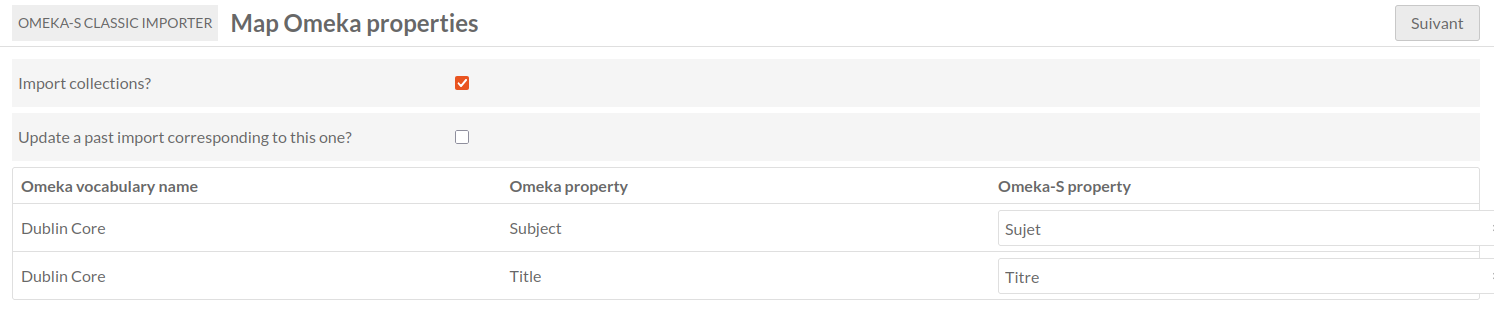
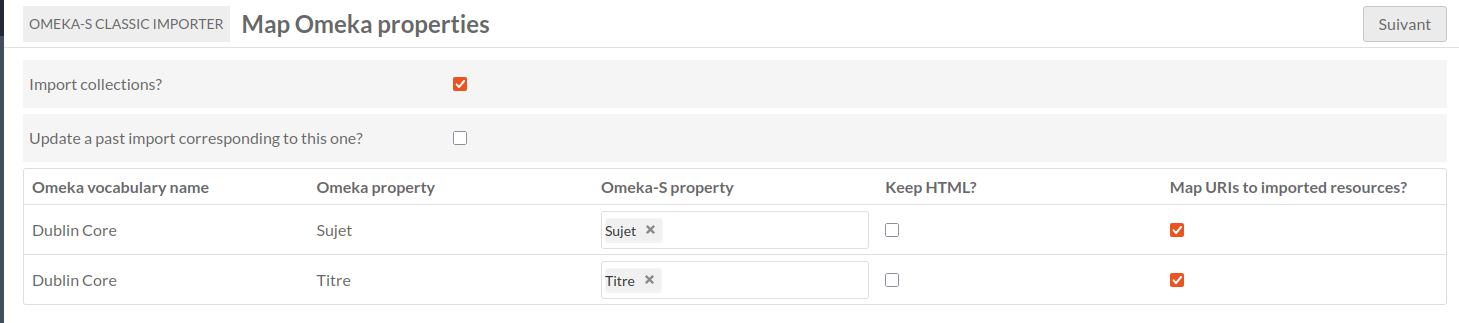
Update README.

diff --git a/README.md b/README.md
@@ -15,24 +15,50 @@ To use the module, you first need an Omeka (classic) instance of your choice, th
 The module is not made to create the dump, the administrator needs to do it by themself.
 
 The dump then needs to be uploaded to the Omeka-S instance (anywhere Omeka-S can reach).
-The module also is not made to upload the dump to the Omeka-S instance. It needs to be done by an administrator beforehand.
+The module also is not made to upload the dump.sql file to the Omeka-S instance. It needs to be done by an administrator beforehand.
 
-Lastly, if not already existing, a MySQL administrator user with all (\*.\*) permissions MUST be created beforehand.
-This user will be used by the module to create a new database to receive the dump.
+The media files contained in omeka/files/original must also be uploaded (anywhere Omeka-S can reach) if you want the media to be imported.
+
+Lastly, a MySQL temporary database with a user having permissions on it must be created to import the dump.
+Here is what the SQL commands should look like more or less, to be executed as root:
+```bash
+sudo mysql -uroot
+[MySQL] > CREATE USER 'tempdb'@'%' IDENTIFIED BY 'password';
+[MySQL] > CREATE DATABASE tempdb;
+[MySQL] > GRANT ALL PRIVILEGES ON tempdb.* TO 'tempdb'@'%';
+```
+
 It is needed because the default user (omekas) does not have enough permissions to do that.
-DO NOT use 'root' user as it will not work. This user is special and cannot be used by PHP.
+If you wish to use a different name than "tempdb" or "password", please change the config/module.config.php file accordingly.
+```php
+    // This is in config/module.config.php
+    'classicimporter' => [
+        'tempdb_credentials' => [
+            "username" => "tempdb",
+            "password" => "password",
+            "hostname" => "localhost",
+            "database" => "tempdb",
+        ]
+    ]
+```
 
-Once all done, you may find, in the "ClassicImporter" tab, a form to get the path to the dump file and the SQL admin credentials. Fill in the form. You will then be able to see what properties and resource classes can be mapped to import them. All values set on properties that are NOT mapped will NOT be imported!
+Once all done, you may find, in the "ClassicImporter" tab, a form to get the path to the dump file, the path to the media files and the Omeka URL. The Omeka URL does not need to work, it is used to replace the text like my-omeka-classic.com to my-omeka-s.com in resource values. Fill in the form. You will then be able to see what properties and resource classes can be mapped to import them. All values set on properties that are NOT mapped will NOT be imported!
 
 Use "Import collections" if you want to import item sets.
 Use "Update" if you want to update from your precedent dump import. Previously imported resources with matching ids will therefore be updated accordingly.
+Use "Import Item sets tree" if the dump contains CollectionsTree information that can be imported.
+
+For each property, you may select "Clean HTML" to clear HTML content from the property values. If `dcterms:title` is `<strong>Hello!</strong>`, "Clean HTML" will only keep `Hello !`.
+
+For each property, you can also check "Map URIs". This means that if `dcterms:description` is `my-omeka-classic.com/show/items/5/`, the value will be imported as a URI to the corresponding imported item. If unchecked, the link will be kept like it was.
+Checking this checkbox will also import values like `<a href="https://example.com">My link!</a>` as a link rather than HTML content.
 
 Finally, if no errors, all the imported resources should be on your Omeka-S instance.
 
 Example
 -------
 
-![Screenshot of loading from a dump file.](screenshots/loading_from_dump_file.png)
+![Screenshot of loading from a dump file.](screenshots/loading_from_a_dump_file.png)
 ![Screenshot of mapping properties](screenshots/mapping_properties.png)
 
 Warning
@@ -41,6 +67,8 @@ Warning
 Use it at your own risk.
 
 It’s always recommended to backup your files and your databases and to check your archives regularly so you can roll back if needed.
+
+If you don't know what you're doing, you're probably not the target audience for this module. It should only be used by administrators.
 
 Troubleshooting
 ---------------
